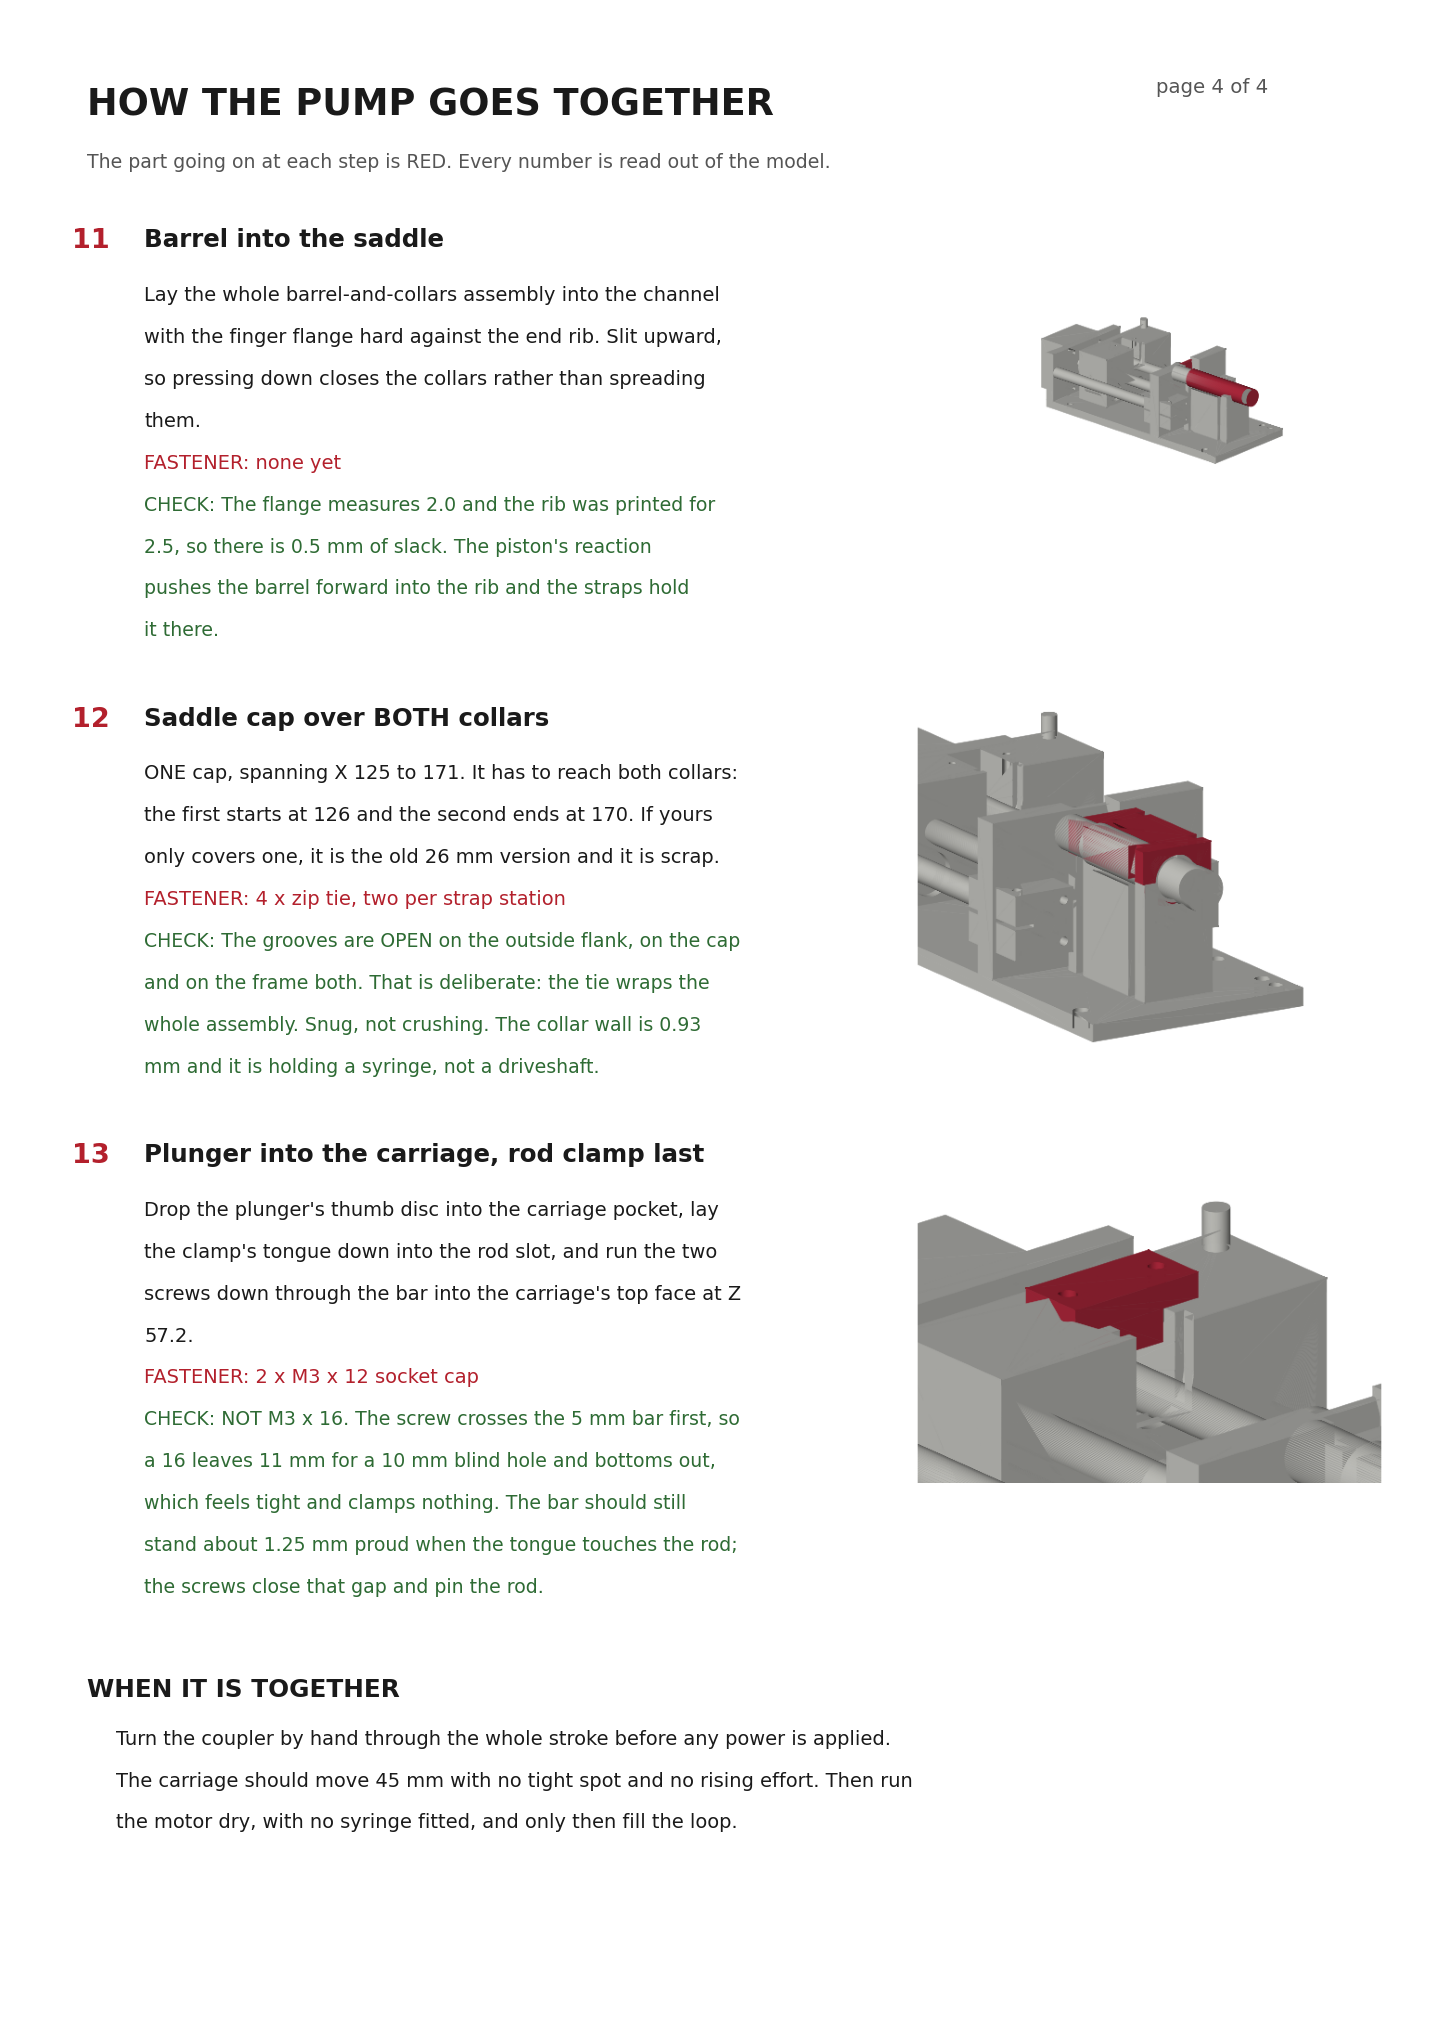
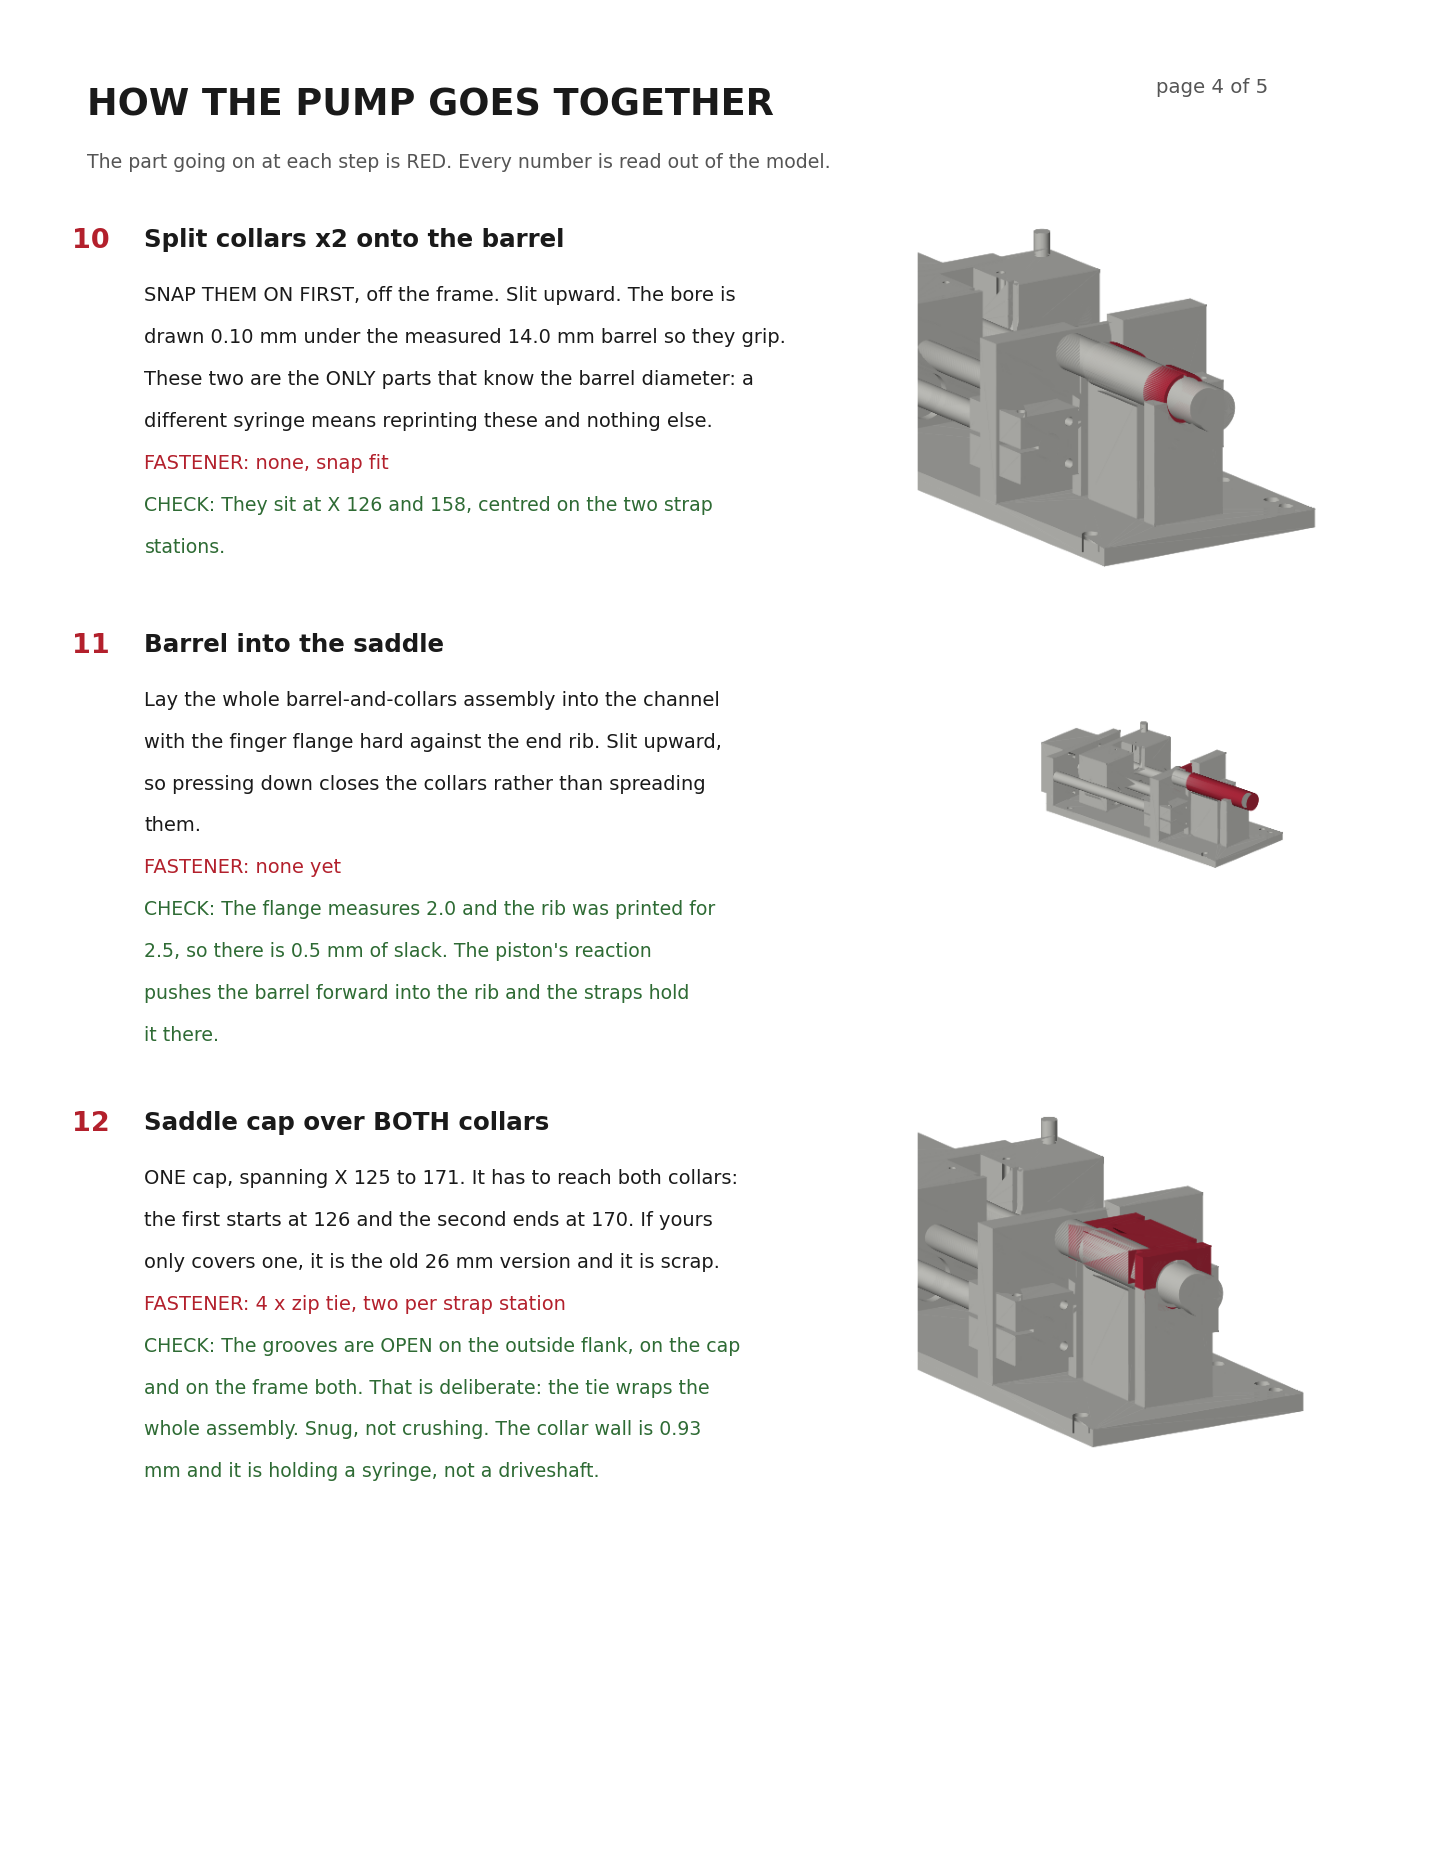
build_steps: one PDF, on a page that is really letter
The sheet was drawn on a 100 x 140 unit page rendered at 8.5 x 11.9 in,
which is not a paper size: every print came out scale-to-fit at about 92
percent, so anything a student measured off the sheet was 8 percent small.
The units are now letter exactly, 612 x 792 points, and the pages leave as
one PDF instead of four PNGs that arrive in an email in whatever order the
client feels like.

Pagination moved out of sheet() into pages() so it can be checked without
rendering, and the closing block is now part of the measuring pass rather
than drawn on whatever room happens to be left. Stale page files are
removed before a run, because a stale page 5 of 5 looks as authoritative
as a live one. 116 checks.

diff --git a/flow/build_steps.py b/flow/build_steps.py
@@ -18,6 +18,7 @@ bottoms out in a 10 mm blind hole, and its screws were on no list at all.
 EVERY NUMBER HERE IS DERIVED. Nothing is typed twice. If the model changes,
 this changes, and check_drive compares the two.
 """
+import glob
 import os
 
 import numpy as _np
@@ -353,6 +354,55 @@ def report():
     A("  motor dry, no syringe, and only then fill the loop.")
 
 
+# ------------------------------------------------------------------ the page
+# US letter, and the units ARE the paper: 100 wide by 129.41 tall is 8.5 x 11
+# at 11.765 units to the inch. It was 100 x 140 drawn at 8.5 x 11.9 in, which
+# is not a paper size anyone owns, so every print came out scale-to-fit at
+# about 92% and anything a student measured off the sheet was 8% small.
+PAGE_W, PAGE_H = 100.0, 100.0 * 11.0 / 8.5
+TXT_W = 62               # characters of text before the picture column
+PIC_W, PIC_H = 33.0, 25.0
+LINE = 2.9               # body line pitch
+
+# The three lines under WHEN IT IS TOGETHER, plus their heading. They are the
+# last thing on the last page and were the one block the measuring pass did
+# not know about, which is the same defect that cut the sheet off at step 7:
+# content that exists in the drawing and not in the measurement.
+CLOSE_H = 1.0 + 3.6 + LINE * 3
+
+
+def pages():
+    """Which steps land on which page, measured from the content.
+
+    Kept out of sheet() so it can be checked without rendering anything. The
+    first version of the sheet ran one page and stopped at step 7 because the
+    page filled, which looks finished and is not: the six it cut included the
+    saddle cap and the rod clamp, the two most likely to be built wrong.
+
+    Page 1 also carries the fastener table and the warning line above the
+    first step, so it has less room. Measuring every page as if it started at
+    the top is what ran step 4's CHECK lines off the bottom of page 1.
+    """
+    head1 = 3.6 + 3.1 * len(fasteners()) + 1.2 + 4.6
+    laid, cur, y = [], [], PAGE_H - 10.0 - head1
+    for i, (name, do, fast, test) in enumerate(steps(), 1):
+        body = ([("t", name)]
+                + [("d", l) for l in _wrap(do, TXT_W)]
+                + [("f", l) for l in _wrap("FASTENER: " + fast, TXT_W - 2)]
+                + [("c", l) for l in _wrap("CHECK: " + test, TXT_W - 2)])
+        text_h = 4.0 + LINE * (len(body) - 1)
+        need = max(text_h, PIC_H) + 3.0
+        if y - need < 8.0:
+            laid.append(cur)
+            cur, y = [], PAGE_H - 10.0
+        cur.append((i, body, need))
+        y -= need
+    laid.append(cur)
+    if y - CLOSE_H < 8.0:
+        laid.append([])          # the closing block gets a page of its own
+    return laid
+
+
 def sheet():
     """The procedure as printable pages: text on the left, a picture of that
     step on the right, with the part going on shown in red.
@@ -366,37 +416,21 @@ def sheet():
     matplotlib.use("Agg")
     import matplotlib.pyplot as plt
     import matplotlib.image as mpimg
+    from matplotlib.backends.backend_pdf import PdfPages
 
     INK, MUT, RED, GRN = "#1a1a1a", "#555555", "#b3202c", "#2e6b34"
     figs = figures()
-    st = steps()
-    W, H = 100.0, 140.0
-    TXT_W = 62           # characters of text before the picture column
-    PIC_W, PIC_H = 33.0, 25.0
+    laid = pages()
 
-    # measure first, so the page count comes from the content
-    # Page 1 carries the fastener table and the warning line above the first
-    # step, so it has less room. Measuring every page as if it started at the
-    # top is what ran step 4's CHECK lines off the bottom of page 1.
-    HEAD1 = 3.6 + 3.1 * len(fasteners()) + 1.2 + 4.6
-    laid, cur, y = [], [], H - 10.0 - HEAD1
-    for i, (name, do, fast, test) in enumerate(st, 1):
-        body = ([("t", name)]
-                + [("d", l) for l in _wrap(do, TXT_W)]
-                + [("f", l) for l in _wrap("FASTENER: " + fast, TXT_W - 2)]
-                + [("c", l) for l in _wrap("CHECK: " + test, TXT_W - 2)])
-        text_h = 4.0 + 2.9 * (len(body) - 1)
-        need = max(text_h, PIC_H) + 3.0
-        if y - need < 8.0:
-            laid.append(cur)
-            cur, y = [], H - 10.0
-        cur.append((i, body, need))
-        y -= need
-    laid.append(cur)
+    # A run that paginates to fewer pages than the last one must not leave
+    # the old final page sitting next to the new ones, because a stale page 5
+    # of 5 looks exactly as authoritative as a live one.
+    for f in glob.glob(OUT.replace(".png", "_p*.png")):
+        os.remove(f)
 
-    out = []
+    out, W, H = [], PAGE_W, PAGE_H
     for pno, page in enumerate(laid, 1):
-        fig = plt.figure(figsize=(8.5, 11.9), facecolor="white")
+        fig = plt.figure(figsize=(8.5, 11.0), facecolor="white")
         ax = fig.add_axes([0, 0, 1, 1])
         ax.set_xlim(0, W)
         ax.set_ylim(0, H)
@@ -469,10 +503,27 @@ def sheet():
 
         f = OUT.replace(".png", "_p%d.png" % pno)
         fig.savefig(f, dpi=170, facecolor="white")
-        plt.close(fig)
-        out.append(f)
+        out.append((f, fig))
         print("wrote %s" % f)
-    return out
+
+    # The PDF is the thing that actually gets handed over: one file, pages in
+    # order, vector text that stays sharp at whatever the lab printer does.
+    # The PNGs stay because they paste straight into a message, where a PDF
+    # has to be opened first. Nothing else in the repo reads them.
+    pdf = OUT.replace(".png", ".pdf")
+    with PdfPages(pdf) as pp:
+        for _f, fig in out:
+            pp.savefig(fig, facecolor="white")
+        d = pp.infodict()
+        d["Title"] = "How the pump goes together"
+        d["Subject"] = ("Assembly procedure for the syringe drive, "
+                        "%d steps, every number read out of the model"
+                        % len(steps()))
+        d["Keywords"] = "TCD phantom, flow loop, syringe drive, assembly"
+    for _f, fig in out:
+        plt.close(fig)
+    print("wrote %s  (%d pages)" % (pdf, len(laid)))
+    return [f for f, _fig in out] + [pdf]
 
 
 def _wrap(s, n):

diff --git a/flow/check_drive.py b/flow/check_drive.py
@@ -565,7 +565,7 @@ import atexit
 # crash never ran and the summary still said everything was fine. That is a
 # dead instrument reporting success, which is the one failure this whole file
 # exists to prevent, so it now counts itself.
-EXPECTED = 114
+EXPECTED = 116
 
 
 @atexit.register
@@ -1223,3 +1223,21 @@ check("every step has a picture",
       set(_BS.VIEWS) == set(range(1, len(_BS.steps()) + 1)),
       "%d steps, %d views, none without a figure"
       % (len(_BS.steps()), len(_BS.VIEWS)))
+
+# ------------------------------------------------------- the pagination itself
+# "sheet() carries every step" above is a claim about steps(), not about the
+# page the student holds. pages() does the measuring, so measure IT: every
+# step on exactly one page, no step on two, none lost between them.
+_laid = _BS.pages()
+_on = [i for page in _laid for i, _b, _n in page]
+check("every step lands on exactly one page",
+      sorted(_on) == list(range(1, len(_BS.steps()) + 1)),
+      "%d pages, steps %s" % (len(_laid), _on))
+
+# And the page is really US letter. It was 100 x 140 units drawn at 8.5 x 11.9
+# in, which is not a paper size: every print came out scale-to-fit at about
+# 92%, so anything measured off the sheet was 8% small.
+check("the page is US letter",
+      abs(_BS.PAGE_W / _BS.PAGE_H - 8.5 / 11.0) < 1e-9,
+      "%.1f x %.2f units is %.3f, letter is %.3f"
+      % (_BS.PAGE_W, _BS.PAGE_H, _BS.PAGE_W / _BS.PAGE_H, 8.5 / 11.0))
